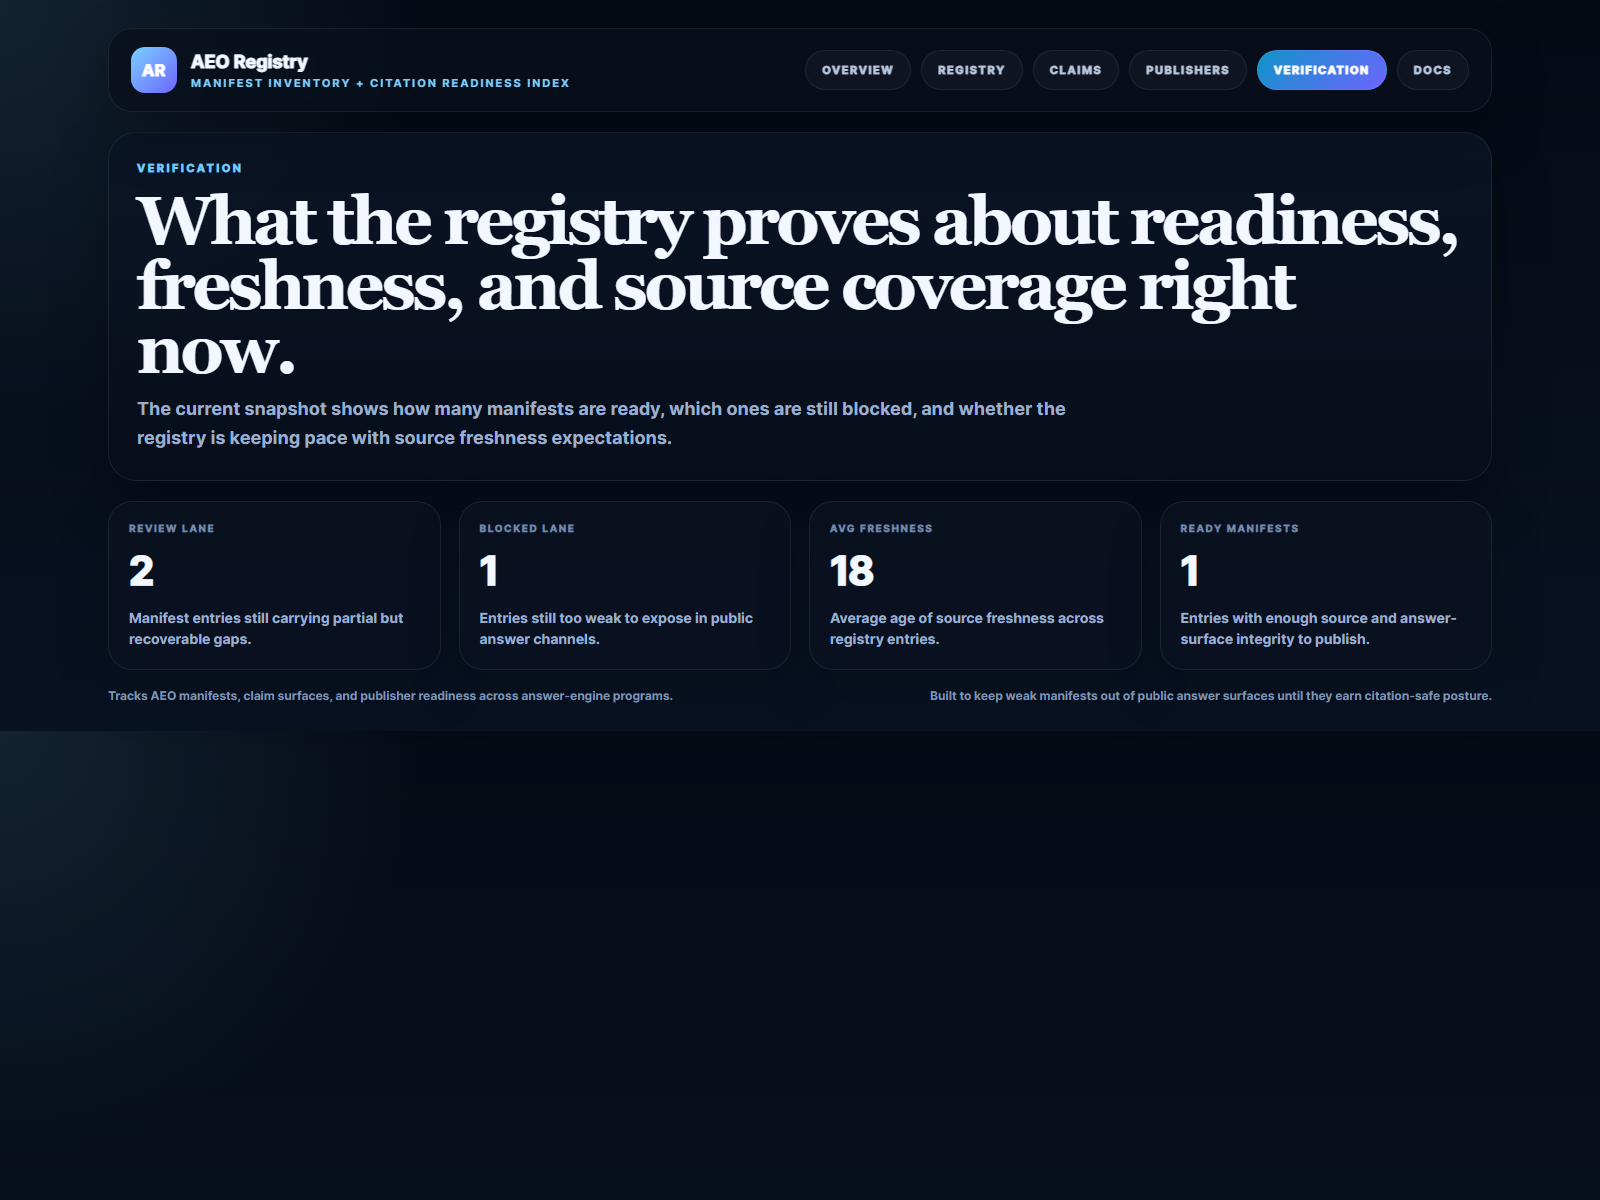
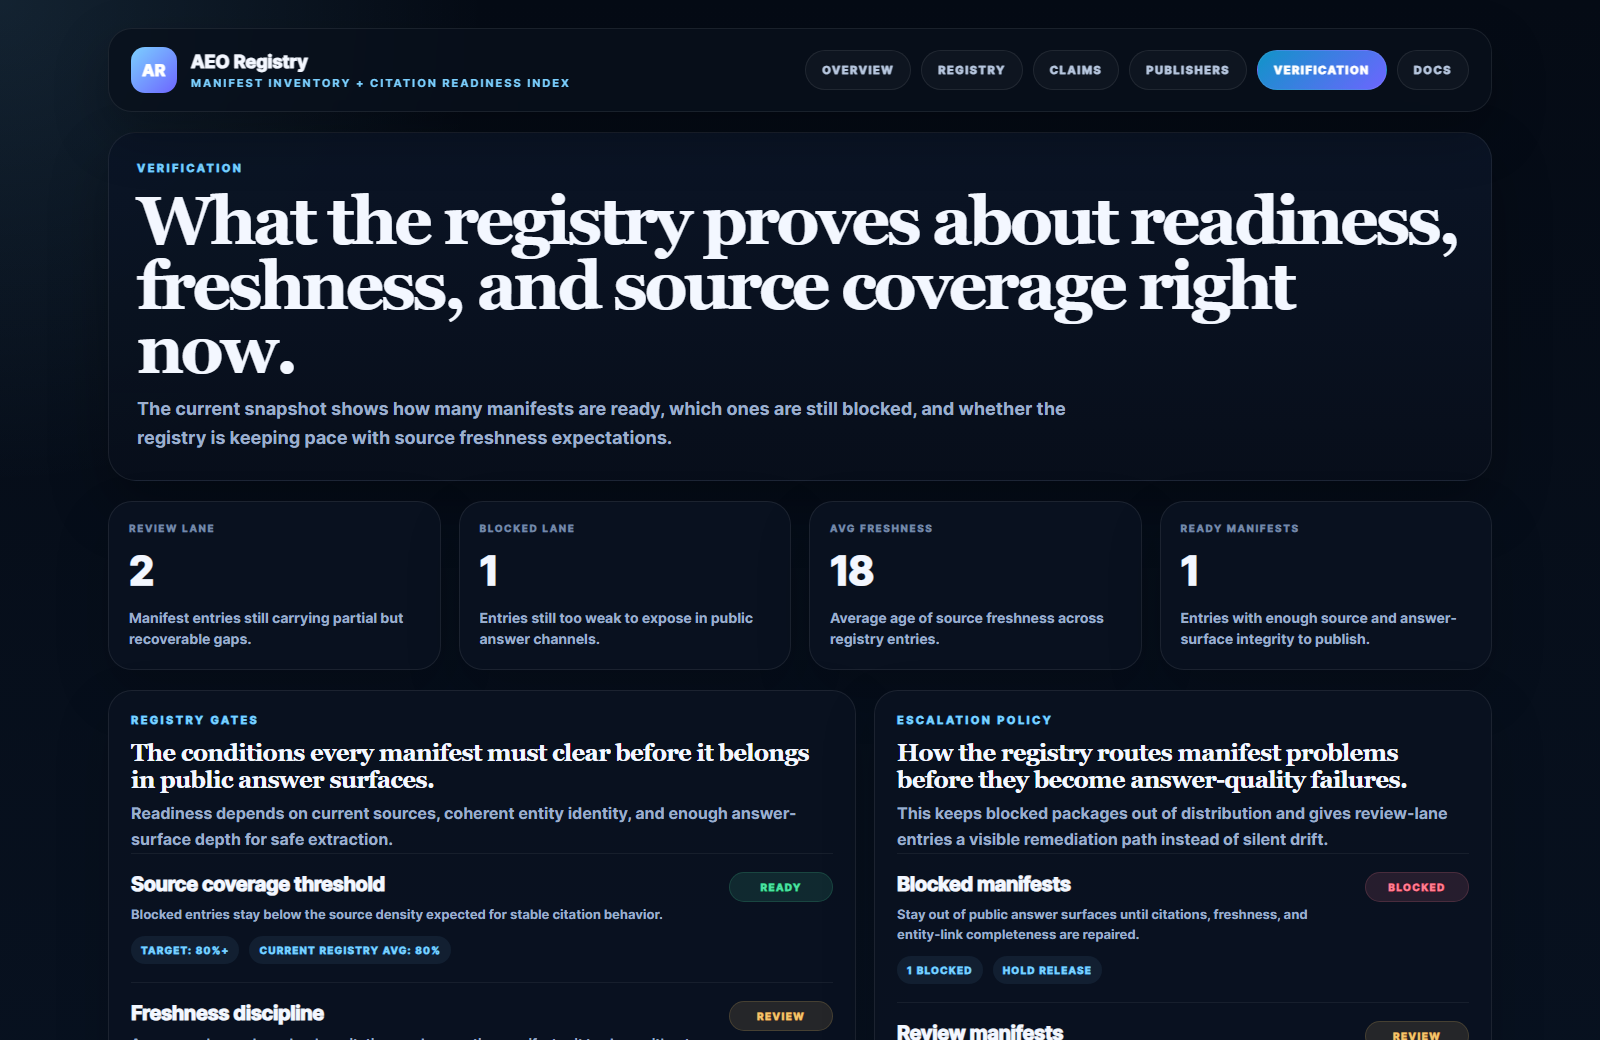
Tighten verification proof layout

diff --git a/src/services/render.ts b/src/services/render.ts
@@ -339,6 +339,50 @@ export function renderVerification() {
         <article class="card metric-card"><div class="label">Avg freshness</div><div class="value">${stats.avgFreshnessDays}</div><p>Average age of source freshness across registry entries.</p></article>
         <article class="card metric-card"><div class="label">Ready manifests</div><div class="value">${stats.readyCount}</div><p>Entries with enough source and answer-surface integrity to publish.</p></article>
       </section>
+      <section class="grid-2">
+        <article class="card section-card">
+          <div class="eyebrow">Registry gates</div>
+          <h2>The conditions every manifest must clear before it belongs in public answer surfaces.</h2>
+          <p>Readiness depends on current sources, coherent entity identity, and enough answer-surface depth for safe extraction.</p>
+          <div class="list-row">
+            <div>
+              <h3>Source coverage threshold</h3>
+              <div class="meta">Blocked entries stay below the source density expected for stable citation behavior.</div>
+              <div class="signal-list"><span class="signal">Target: 80%+</span><span class="signal">Current registry avg: ${stats.avgSourceCoverage}%</span></div>
+            </div>
+            <div><span class="pill ${stats.avgSourceCoverage >= 80 ? "ready" : "review"}">${stats.avgSourceCoverage >= 80 ? "ready" : "review"}</span></div>
+          </div>
+          <div class="list-row">
+            <div>
+              <h3>Freshness discipline</h3>
+              <div class="meta">Answer packages degrade when citations and supporting manifests sit too long without revalidation.</div>
+              <div class="signal-list"><span class="signal">Target: under 14 days</span><span class="signal">Current avg: ${stats.avgFreshnessDays} days</span></div>
+            </div>
+            <div><span class="pill ${stats.avgFreshnessDays <= 14 ? "ready" : "review"}">${stats.avgFreshnessDays <= 14 ? "ready" : "review"}</span></div>
+          </div>
+        </article>
+        <article class="card section-card">
+          <div class="eyebrow">Escalation policy</div>
+          <h2>How the registry routes manifest problems before they become answer-quality failures.</h2>
+          <p>This keeps blocked packages out of distribution and gives review-lane entries a visible remediation path instead of silent drift.</p>
+          <div class="list-row">
+            <div>
+              <h3>Blocked manifests</h3>
+              <div class="meta">Stay out of public answer surfaces until citations, freshness, and entity-link completeness are repaired.</div>
+              <div class="signal-list"><span class="signal">${stats.blockedCount} blocked</span><span class="signal">Hold release</span></div>
+            </div>
+            <div><span class="pill blocked">blocked</span></div>
+          </div>
+          <div class="list-row">
+            <div>
+              <h3>Review manifests</h3>
+              <div class="meta">Remain visible for remediation, but need renewed validation before they graduate into the ready lane.</div>
+              <div class="signal-list"><span class="signal">${stats.reviewCount} in review</span><span class="signal">Refresh sources</span></div>
+            </div>
+            <div><span class="pill review">review</span></div>
+          </div>
+        </article>
+      </section>
     `
   );
 }
